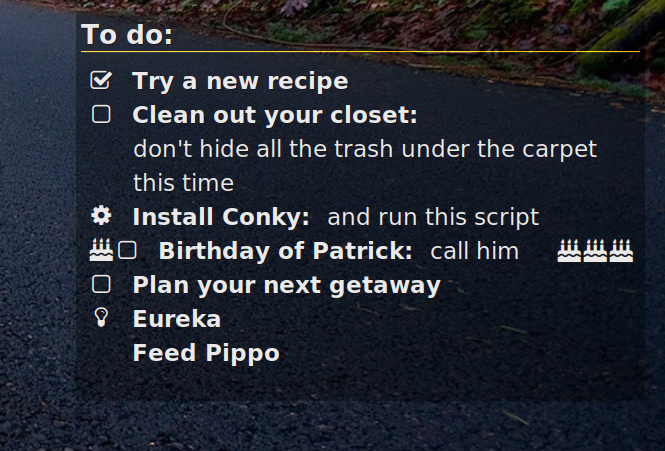
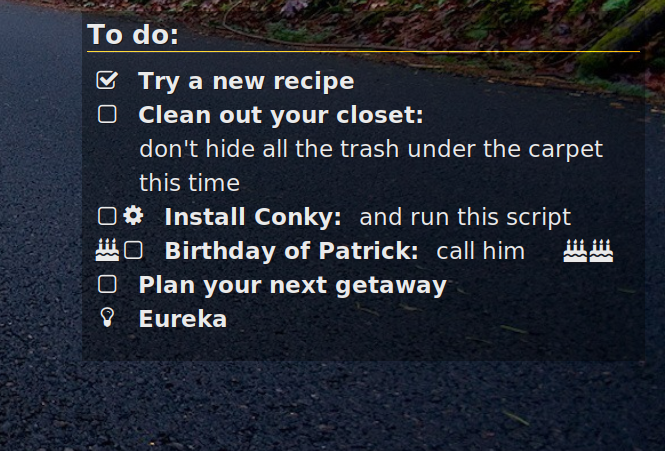
update

Changed region(s): [[0.0902, 0.031, 0.9023, 0.8071], [0.8421, 0.5277, 0.9624, 0.5898]]

diff --git a/README.md b/README.md
@@ -5,25 +5,37 @@ This script shows a minimalist frame that contain a date field, the local ip add
 
 ![date,ip,temp](img/date_ip_temperature_01.png "date, ip and temperature")
 
+### hour_temp_minimalist:  
+
+This script shows a minimalist clock and temperature monitor.  The temperature indicator color is white if the temperature is lower than 46º, the color change to orange if the temperature is between 46º and 55º, and change to red if it is greater than 55º.
+
+![Hour temperature example](img/hour_temperature_01.png "Hour and temperature example")
+
 ### To-Do: 
+
 For use the **todo.conf**, a file named **~/dotfiles/conky/todo.md** must be created with the following structure.
 
 * one or more joined characters from the myConkySymbols font
 * a space  separation followed by one or more words. This sentence will be split by '**;**'. if there are no '**;**' the  font weight of the sentence will be normal, if there are one or two '**;**' the first part will be bold, the second normal and if a third part is formed it will display as characters of myConkySymbols again.
 
-Este script esta limitado a 10 items.
+This script is limited by10 items.
 
 **E.g:**
 
 ```
-v Math: Study equations
-u Workout: 3 series of push-ups 
-u Walk 
+v Try a new recipe; 
+u Clean out your closet:; 
+~ don't hide all the trash under the carpet
+~ this time 
+uc Install Conky:; and run this script  
+zu Birthday of Patrick:; call him; zz
+u Plan your next getaway; 
+i Eureka; 
+
 ```
 
-![Todo example](img/todo_and_description_from_file_02.png  "Todo example")
+![Todo example](img/todo_01.png  "Todo example")
 
-### hour_temp_minimalist:  
-This script shows a minimalist clock and temperature monitor.  The temperature indicator color is white if the temperature is lower than 46º, the color change to orange if the temperature is between 46º and 55º, and change to red if it is greater than 55º.
+### Weekly To-Do:
 
-![Hour temperature example](img/hour_temperature_01.png "Hour and temperature example")
+This is just a variation of the todo.conf, placed at the bottom.
